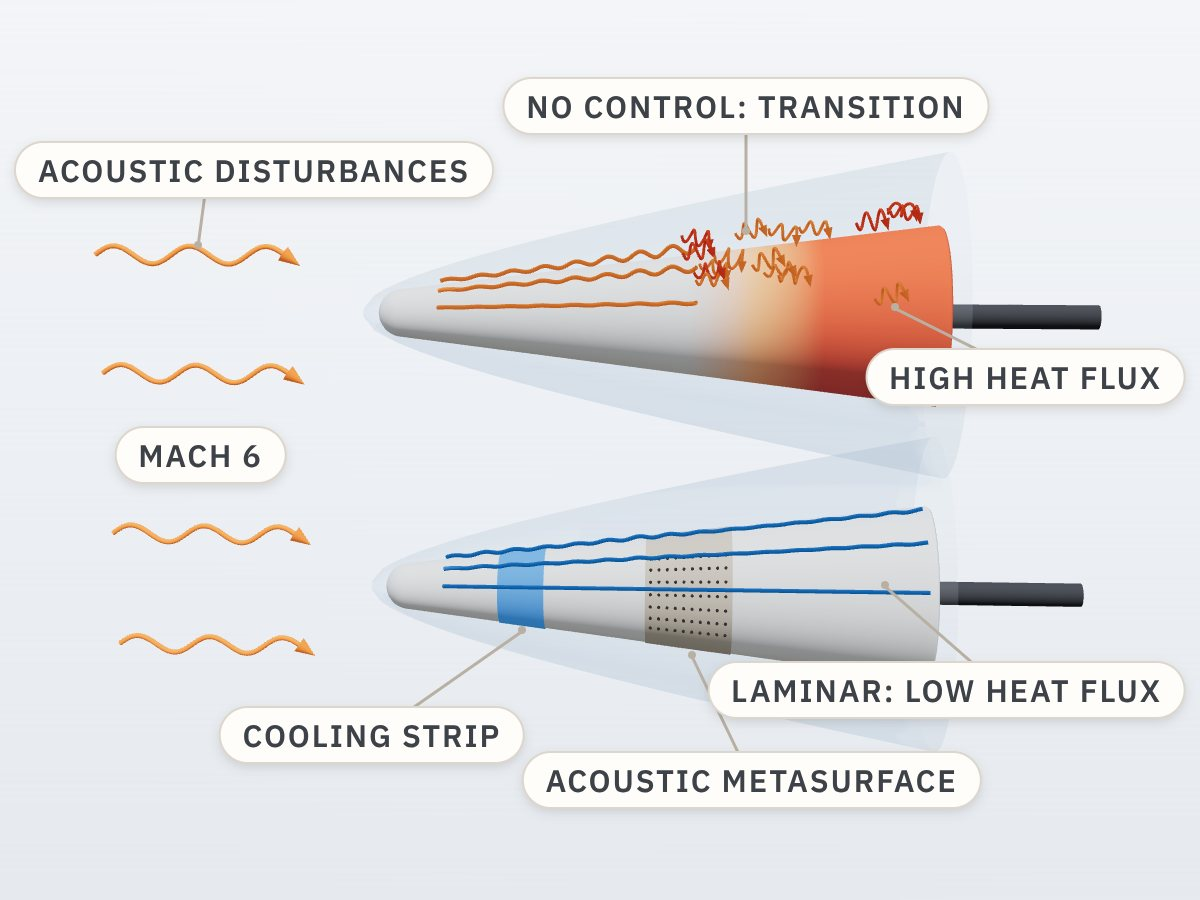
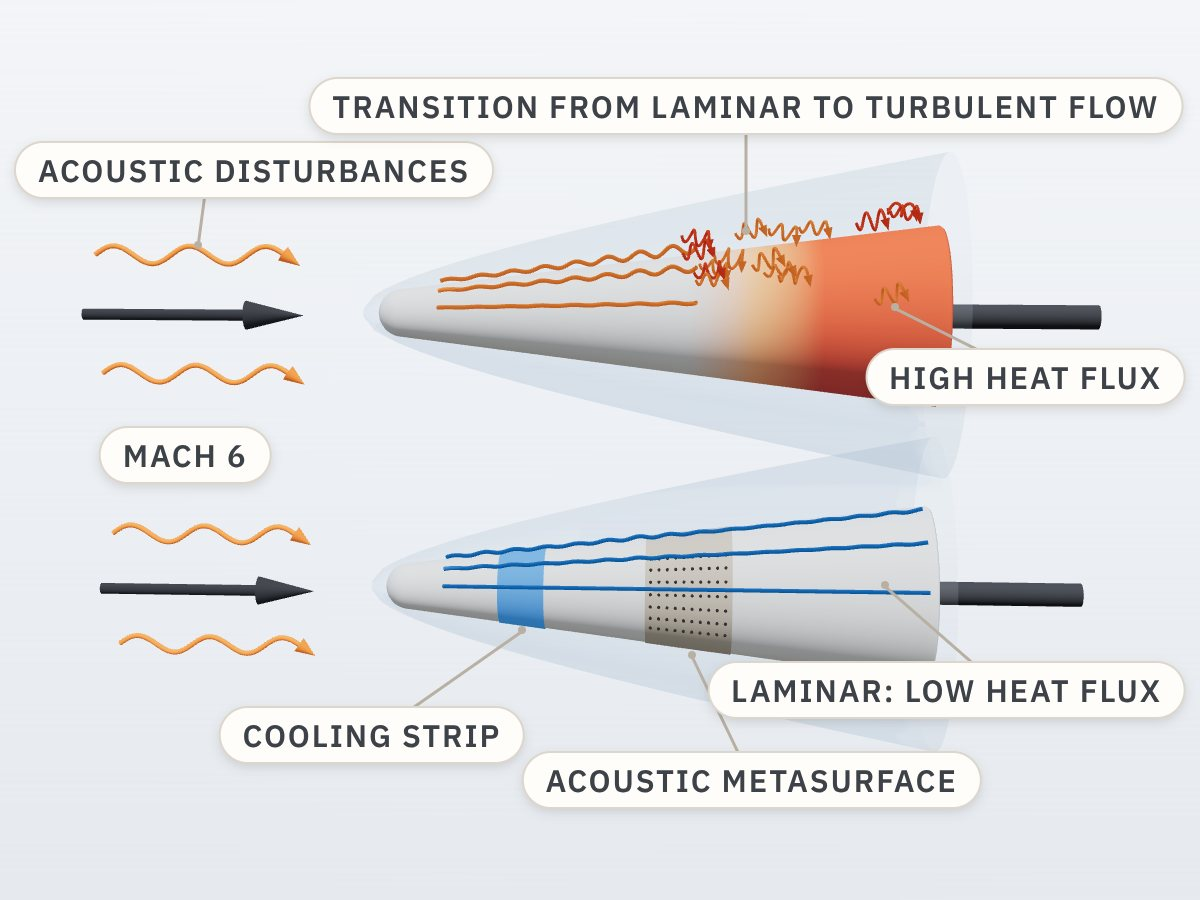
Illustrations: ship turbulence, FAA wind field, Mach 6 arrows, lift curve
- AIRWISE: eddies shed from the superstructure; network labeled AIRWISE
- FAA ASSURE: vertical LES slice behind the towers, ABL inflow with mean and
  fluctuating profiles, more building-induced eddies, VTOL clearly visible
- Hypersonic: a Mach 6 free-stream arrow on each cone; transition label
- Flow control: inflow aligned with the leading edges; C_L-alpha inset with
  delayed stall and higher C_L,max when the actuators are on

Claude-Session: https://claude.ai/code/session_01BxnXVDyGPR6ku7y4dUWxom

diff --git a/tools/scenes/scenes/swj.js b/tools/scenes/scenes/swj.js
@@ -1,4 +1,4 @@
-import { THREE, C, setup, clay, glass, mesh, rbox, streamline, swirl, finish } from './lib.js';
+import { THREE, C, setup, clay, glass, mesh, rbox, streamline, swirl, finish, inset } from './lib.js';
 
 // Two wings at an angle of attack beyond stall. Top: actuators off, the flow separates from the leading edge.
 // Bottom: sweeping jet actuators on, the flow stays attached to the trailing edge.
@@ -12,7 +12,8 @@ function wing(scene, y0) {
   const s = new THREE.Shape(); s.moveTo(...up[0]); up.slice(1).forEach(p => s.lineTo(...p)); lo.slice().reverse().forEach(p => s.lineTo(...p));
   const w = new THREE.Mesh(new THREE.ExtrudeGeometry(s, { depth: span, bevelEnabled: false }), [clay('#5d6570'), clay('#eceae5')]);
   w.position.set(-c / 2, y0, -span / 2); w.castShadow = w.receiveShadow = true; scene.add(w);
-  return up.map(([x, y]) => [x - c / 2, y + y0]);
+  const sh = ([x, y]) => [x - c / 2, y + y0];
+  return { up: up.map(sh), lo: lo.map(sh) };
 }
 
 function oscTexture() {
@@ -29,23 +30,26 @@ function oscTexture() {
 }
 
 export default async function () {
-  const ctx = setup({ cam: [-5.0, 6.0, 21.5], target: [0.5, -0.1, 0], fov: 30, lightPos: [-4, 12, 9], shadowSize: 9 });
+  const ctx = setup({ cam: [-4.2, 6.0, 24.5], target: [1.5, -0.3, 0], fov: 30, lightPos: [-4, 12, 9], shadowSize: 9 });
   const { scene } = ctx;
   const yTop = 2.3, yBot = -2.4;
-  const upT = wing(scene, yTop), upB = wing(scene, yBot);
+  const T = wing(scene, yTop), Bw = wing(scene, yBot), upT = T.up, upB = Bw.up;
+  const X1 = -6.6;                                          // upstream start of the streamlines
+  // pressure-side streamline: approaches just below the stagnation point, follows the lower surface, leaves the trailing edge
+  const lower = (W, y0, z) => { const pts = [[X1, y0 - 0.32, z], [-3.6, y0 - 0.34, z]];
+    W.lo.filter((_, i) => i % 10 === 0 && i > 4).forEach(p => pts.push([p[0], p[1] - 0.24, z]));
+    const te = W.lo[80]; pts.push([te[0] + 0.8, te[1] - 0.3, z], [te[0] + 1.7, te[1] - 0.4, z]); streamline(scene, pts, { r: 0.04, color: C.flow, opacity: 0.85 }); };
 
-  // --- actuators off: leading-edge separation, recirculation over the suction side, wide wake
-  for (const z of [-1.4, 0.4]) {
-    const le = upT[3];
-    streamline(scene, [[-5.6, le[1] + 0.9, z], [-3.2, le[1] + 0.85, z], [le[0] + 0.1, le[1] + 0.35, z], [0.4, le[1] + 0.85, z], [2.4, le[1] + 0.95, z], [4.6, le[1] + 0.8, z]], { r: 0.042, color: C.flow, opacity: 0.85 });
-  }
-  for (const [f, rad] of [[0.3, 0.36], [0.55, 0.45], [0.8, 0.42]]) {
+  // --- actuators off: the suction-side streamlines leave the leading edge (separated shear layer); recirculation below them
+  for (const z of [0.7, -1.3]) streamline(scene, [[X1, yTop + 0.22, z], [-3.4, yTop + 0.22, z], [upT[2][0] - 0.05, upT[2][1] + 0.16, z], [-0.6, yTop + 0.48, z], [1.6, yTop + 0.56, z], [4.2, yTop + 0.5, z]], { r: 0.042, color: C.flow, opacity: 0.85 });
+  lower(T, yTop, 0.0);
+  for (const [f, rad] of [[0.3, 0.3], [0.55, 0.4], [0.8, 0.4]]) {
     const p = upT[Math.round(f * 80)];
-    swirl(scene, [p[0], p[1] + rad + 0.08, -0.4], { axis: [0, 0, 1], radius: rad, turns: 2.4, length: 1.6, color: C.hot, opacity: 0.9, grow: 0.25 });
+    swirl(scene, [p[0], p[1] + rad + 0.06, -0.4], { axis: [0, 0, 1], radius: rad, turns: 2.4, length: 1.6, color: C.hot, opacity: 0.9, grow: 0.25 });
   }
-  swirl(scene, [2.6, upT[80][1] + 0.1, -0.4], { axis: [0, 0, 1], radius: 0.38, turns: 2, length: 1.4, color: C.hot, opacity: 0.8 });
+  swirl(scene, [2.4, upT[80][1] + 0.25, -0.4], { axis: [0, 0, 1], radius: 0.36, turns: 2, length: 1.4, color: C.hot, opacity: 0.8 });
 
-  // --- actuators on: sweeping jets near the leading edge; streamlines follow the suction side to the trailing edge
+  // --- actuators on: sweeping jets near the leading edge; the suction-side streamlines stay attached to the trailing edge
   const i0 = 12, p0 = upB[i0], p1 = upB[i0 + 4];
   const xd = new THREE.Vector3(p1[0] - p0[0], p1[1] - p0[1], 0).normalize(), zd = new THREE.Vector3(0, 0, 1);
   const nrm = new THREE.Vector3().crossVectors(zd, xd).normalize();
@@ -63,23 +67,55 @@ export default async function () {
       streamline(scene, [[o.x, o.y + 0.05, o.z], e.toArray()], { r: ph === 0 ? 0.03 : 0.02, color: C.orange, opacity: ph === 0 ? 1 : 0.6, arrow: ph === 0 });
     }
   }
-  for (const z of [-1.9, 0.6]) {
-    const pts = [[-5.6, upB[0][1] + 0.75, z], [-3.0, upB[0][1] + 0.7, z]];
-    upB.filter((_, i) => i % 7 === 0 && i > 2).forEach(p => pts.push([p[0], p[1] + 0.28, z]));
-    const te = upB[80]; pts.push([te[0] + 0.9, te[1] - 0.2, z], [te[0] + 2.2, te[1] - 0.35, z]);
+  for (const z of [0.65, -0.65]) {
+    const pts = [[X1, yBot + 0.22, z], [-3.4, yBot + 0.22, z], [upB[2][0] - 0.05, upB[2][1] + 0.16, z]];
+    upB.filter((_, i) => i % 8 === 0 && i > 4).forEach(p => pts.push([p[0], p[1] + 0.2, z]));
+    const te = upB[80]; pts.push([te[0] + 0.8, te[1] - 0.12, z], [te[0] + 1.7, te[1] - 0.22, z]);
     streamline(scene, pts, { r: 0.042, color: C.flow, opacity: 0.9 });
   }
+  lower(Bw, yBot, 0.0);
 
-  // fluidic oscillator (actuator internals), top right
+  // fluidic oscillator (actuator internals)
   const side = clay('#6f7782');
   const block = new THREE.Mesh(new THREE.BoxGeometry(2.0, 0.18, 1.25), [side, side, new THREE.MeshStandardMaterial({ map: oscTexture(), roughness: 0.8 }), side, side, side]);
-  block.position.set(3.9, 0.15, 0.6); block.rotation.set(0.75, -0.25, 0); block.castShadow = true; scene.add(block);
+  block.position.set(5.3, 0.35, 0.6); block.rotation.set(0.75, -0.25, 0); block.castShadow = true; scene.add(block);
+
+  // Sub-figure: lift curves. Same lift slope; with actuators off the wing stalls at a lower angle and a lower C_L,max.
+  const w = 430, h = 370, gx0 = 70, gx1 = w - 26, gy0 = h - 62, gy1 = 84;
+  const s = 1.56, a1 = 0.45, a2 = 0.72, aop = 0.58;
+  const cl = (a, as) => { const pk = s * as * 0.82; return a <= as ? s * a * (1 - 0.18 * (a / as) ** 4) : pk * (0.6 + 0.4 * Math.exp(-(a - as) / 0.05)); };
+  const P = (a, v) => [gx0 + (gx1 - gx0) * a, gy0 - (gy0 - gy1) * v];
+  const curve = as => { let d = ''; for (let i = 0; i <= 300; i++) { const a = i / 300, [x, y] = P(a, cl(a, as)); d += (i ? 'L' : 'M') + x.toFixed(1) + ',' + y.toFixed(1); } return d; };
+  const [s1x, s1y] = P(a1, cl(a1, a1)), [s2x, s2y] = P(a2, cl(a2, a2)), [ox] = P(aop, 0);
+  const [o1x, o1y] = P(aop, cl(aop, a1)), [o2x, o2y] = P(aop, cl(aop, a2));
+  inset(ctx.stage, { x: 1200 - w - 18, y: 900 - h - 18, w, h, svg: `
+    <svg width="${w}" height="${h}" viewBox="0 0 ${w} ${h}" xmlns="http://www.w3.org/2000/svg">
+      <text x="22" y="40" font-family="Plex" font-weight="600" font-size="23" letter-spacing="1.5" fill="#3d4148">LIFT CURVE</text>
+      <line x1="${s1x}" y1="${s1y}" x2="${s1x}" y2="${gy0}" stroke="#3f86d9" stroke-width="2" stroke-dasharray="6 6"/>
+      <line x1="${s2x}" y1="${s2y}" x2="${s2x}" y2="${gy0}" stroke="#d55a00" stroke-width="2" stroke-dasharray="6 6"/>
+      <line x1="${ox}" y1="${gy1 - 4}" x2="${ox}" y2="${gy0}" stroke="#b9b0a4" stroke-width="2"/>
+      <text x="${ox}" y="${gy1 - 12}" text-anchor="middle" font-family="PlexMono" font-size="15" fill="#7a8088">α shown</text>
+      <line x1="${gx0}" y1="${gy1 - 10}" x2="${gx0}" y2="${gy0}" stroke="#b9b0a4" stroke-width="3"/>
+      <line x1="${gx0}" y1="${gy0}" x2="${gx1}" y2="${gy0}" stroke="#b9b0a4" stroke-width="3"/>
+      <path d="${curve(a1)}" fill="none" stroke="#3f86d9" stroke-width="4" stroke-linejoin="round"/>
+      <path d="${curve(a2)}" fill="none" stroke="#ff7a1a" stroke-width="4" stroke-linejoin="round"/>
+      <circle cx="${s1x}" cy="${s1y}" r="6.5" fill="#3f86d9"/><circle cx="${s2x}" cy="${s2y}" r="6.5" fill="#ff7a1a"/>
+      <circle cx="${o1x}" cy="${o1y}" r="6" fill="#fffdfa" stroke="#3f86d9" stroke-width="3"/><circle cx="${o2x}" cy="${o2y}" r="6" fill="#fffdfa" stroke="#ff7a1a" stroke-width="3"/>
+      <text x="${s1x - 10}" y="${s1y - 14}" text-anchor="end" font-family="PlexMono" font-size="19" fill="#3f86d9">C<tspan font-size="13" dy="5">L,max</tspan></text>
+      <text x="${s2x}" y="${s2y - 16}" text-anchor="middle" font-family="PlexMono" font-size="19" fill="#d55a00">C<tspan font-size="13" dy="5">L,max</tspan></text>
+      <text x="${s1x}" y="${gy0 + 26}" text-anchor="middle" font-family="PlexMono" font-size="18" fill="#3f86d9">α<tspan font-size="12" dy="5">stall</tspan></text>
+      <text x="${s2x}" y="${gy0 + 26}" text-anchor="middle" font-family="PlexMono" font-size="18" fill="#d55a00">α<tspan font-size="12" dy="5">stall</tspan></text>
+      <text x="${gx1}" y="${gy0 + 50}" text-anchor="end" font-family="PlexMono" font-size="22" fill="#3d4148">α</text>
+      <text x="18" y="${(gy0 + gy1) / 2 + 8}" font-family="PlexMono" font-size="22" fill="#3d4148">C<tspan font-size="15" dy="6">L</tspan></text>
+      <text x="${gx1}" y="${P(1, cl(1, a2))[1] - 14}" text-anchor="end" font-family="Plex" font-weight="600" font-size="16" letter-spacing="1" fill="#d55a00">ON</text>
+      <text x="${gx1}" y="${P(1, cl(1, a1))[1] - 12}" text-anchor="end" font-family="Plex" font-weight="600" font-size="16" letter-spacing="1" fill="#3f86d9">OFF</text>
+    </svg>` });
 
   finish(ctx, [
-    { t: '<span class="nc">α</span> beyond stall', at: [-5.2, yTop + 0.9, -1.4], dx: 20, dy: -70 },
-    { t: 'Actuators off: separated', at: [upT[45][0], upT[45][1] + 1.0, -0.4], dx: 170, dy: -110 },
-    { t: 'Actuators on: attached', at: [upB[60][0], upB[60][1] + 0.28, 0.6], dx: 210, dy: 100 },
-    { t: 'Sweeping jets', at: [p0[0] + 0.6, p0[1] + 0.1, 1.3], dx: -170, dy: 120 },
-    { t: 'Fluidic oscillator', at: [3.9, -0.05, 0.6], dx: 10, dy: 95 },
+    { t: '<span class="nc">α</span> beyond stall', at: [-6.0, yTop + 0.22, 0.7], dx: 30, dy: -80 },
+    { t: 'Actuators off: separated', at: [upT[45][0], upT[45][1] + 0.9, -0.4], dx: 120, dy: -120 },
+    { t: 'Actuators on: attached', at: [upB[60][0], upB[60][1] + 0.2, 0.65], dx: -40, dy: -160 },
+    { t: 'Sweeping jets', at: [p0[0] + 0.6, p0[1] + 0.1, 1.3], dx: -120, dy: 150 },
+    { t: 'Fluidic oscillator', at: [5.3, 0.6, 0.6], dx: -10, dy: -95 },
   ]);
 }

diff --git a/tools/scenes/scenes/faa.js b/tools/scenes/scenes/faa.js
@@ -8,67 +8,89 @@ const towers = [
   [1.0, 2.4, 1.2, 1.2, 4.0], [2.6, -2.2, 1.2, 1.2, 4.6], [3.2, 1.0, 1.1, 1.3, 3.0, 'box'], [-0.6, -3.0, 1.0, 1.0, 2.6],
 ];
 
-function sliceTexture(xmin, xmax, zmin, zmax) {
-  const W = 768, H = 512, cv = document.createElement('canvas'); cv.width = W; cv.height = H; const g = cv.getContext('2d');
+// Vertical (x-y) LES slice behind the district: streamwise velocity of the urban ABL with building wakes and turbulence.
+function sliceTexture(xmin, xmax, ymax, rows) {
+  const W = 640, H = 370, cv = document.createElement('canvas'); cv.width = W; cv.height = H; const g = cv.getContext('2d');
   const img = g.createImageData(W, H);
   const cmap = t => { // coolwarm: blue (slow) -> white -> red-orange (fast)
     const a = [59, 76, 192], b = [235, 236, 240], c = [222, 96, 40];
     const m = (p, q, u) => p.map((v, i) => v + (q[i] - v) * u);
     return t < 0.5 ? m(a, b, t * 2) : m(b, c, (t - 0.5) * 2);
   };
+  // synthetic turbulence: random Fourier modes with a -5/6 amplitude spectrum (Kolmogorov -5/3 energy spectrum)
+  let sd = 29; const r = () => (sd = (sd * 16807) % 2147483647) / 2147483647;
+  const modes = []; for (let m = 0; m < 48; m++) { const k = 1.2 * Math.pow(12, m / 47), th = r() * Math.PI * 2; modes.push([k * Math.cos(th), k * 1.4 * Math.sin(th), r() * 6.28, Math.pow(k, -5 / 6)]); }
+  const norm = modes.reduce((a, m) => a + m[3] ** 2, 0) ** 0.5;
+  const nz = (x, y) => modes.reduce((a, [kx, ky, ph, A]) => a + A * Math.sin(kx * x + ky * y + ph), 0) / norm * 1.6;
   for (let j = 0; j < H; j++) for (let i = 0; i < W; i++) {
-    const x = xmin + (xmax - xmin) * i / W, z = zmin + (zmax - zmin) * j / H;
-    let u = 0.78;
-    for (const [bx, bz, bw, bd] of towers) {
+    const x = xmin + (xmax - xmin) * i / W, y = ymax * (1 - j / H), k = (j * W + i) * 4;
+    let inside = false, u = 0.98 * Math.pow(Math.max(y, 0.02) / ymax, 0.3), tke = 0.25 * Math.exp(-y / 2.5);
+    for (const [bx, bw, h] of rows) {
+      if (Math.abs(x - bx) < bw / 2 && y < h) inside = true;
       const dx = x - (bx + bw / 2);
-      if (dx > -0.2) { const sig = bd * 0.32 + 0.07 * Math.max(dx, 0); u -= 0.48 * Math.exp(-((z - bz) ** 2) / (2 * sig * sig)) * Math.exp(-Math.max(dx, 0) / 7.0); }
-      if (Math.abs(x - bx) < bw / 2 + 0.1 && Math.abs(z - bz) < bd / 2 + 0.1) u = -1;
+      if (dx > -bw && y < h * 1.6) {
+        const fy = Math.exp(-((y - 0.55 * h) ** 2) / (2 * (0.5 * h) ** 2)), fx = dx > 0 ? Math.exp(-dx / 3.2) : 0.6;
+        u -= 0.42 * fx * fy; tke += 0.9 * fx * Math.exp(-((y - h) ** 2) / (2 * (0.45 * h) ** 2));
+      }
     }
-    const n = 0.08 * Math.sin(4.1 * x + 2.2 * Math.sin(3.3 * z)) + 0.07 * Math.sin(7.3 * z + 2.9 * Math.sin(2.9 * x)) + 0.06 * Math.sin(13.1 * x - 9.3 * z + 1.3 * Math.sin(5 * z)) + 0.04 * Math.sin(19.7 * z + 3 * Math.sin(7 * x));
-    const k = (j * W + i) * 4;
-    if (u === -1) { img.data.set([90, 96, 104, 255], k); continue; }
-    const t = Math.min(1, Math.max(0, u + n * (1.6 - u)));
-    img.data.set([...cmap(t).map(Math.round), 235], k);
+    if (inside) { img.data.set([112, 118, 126, 255], k); continue; }
+    const t = Math.min(1, Math.max(0, u + 0.3 * Math.min(tke, 0.75) * nz(x, y)));
+    img.data.set([...cmap(t).map(Math.round), 240], k);
   }
   g.putImageData(img, 0, 0);
   const t = new THREE.CanvasTexture(cv); t.colorSpace = THREE.SRGBColorSpace; t.anisotropy = 8; return t;
 }
 
 export default async function () {
-  const ctx = setup({ cam: [15.5, 14.5, 19.5], target: [0.2, 2.6, 0.2], fov: 31, lightPos: [10, 18, 9], shadowSize: 11 });
+  const ctx = setup({ cam: [10.0, 12.0, 24.5], target: [0.3, 3.75, -0.6], fov: 31, lightPos: [10, 18, 9], shadowSize: 11 });
   const { scene } = ctx;
   const top = tile(scene, { w: 13, d: 10, top: C.sage, base: C.sand });
   city(scene, top, towers);
 
-  // validated LES wind field: horizontal slice through the district
-  const xmin = -6.2, xmax = 6.2, zmin = -4.6, zmax = 4.6, ys = top + 2.2;
-  const plane = mesh(new THREE.PlaneGeometry(xmax - xmin, zmax - zmin), new THREE.MeshStandardMaterial({ map: sliceTexture(xmin, xmax, zmin, zmax), transparent: true, opacity: 0.92, roughness: 0.9, side: THREE.DoubleSide }), { pos: [0, ys, 0], rot: [-Math.PI / 2, 0, 0], cast: false });
+  // validated LES wind field: vertical streamwise slice at the back of the domain, behind the towers
+  const xmin = -6.4, xmax = 6.4, ymax = 7.4, zs = -4.85;
+  const rows = towers.filter(t => t[1] < -1).map(([bx, , bw, , h]) => [bx, bw, h]);   // the slice cuts the back row
+  const plane = mesh(new THREE.PlaneGeometry(xmax - xmin, ymax), new THREE.MeshStandardMaterial({ map: sliceTexture(xmin, xmax, ymax, rows), transparent: true, opacity: 0.95, roughness: 0.9, side: THREE.DoubleSide }), { pos: [0, top + ymax / 2, zs], cast: false });
   scene.add(plane);
-  const edge = new THREE.LineSegments(new THREE.EdgesGeometry(new THREE.PlaneGeometry(xmax - xmin, zmax - zmin)), new THREE.LineBasicMaterial({ color: '#7a8796' }));
-  edge.rotation.x = -Math.PI / 2; edge.position.y = ys + 0.01; scene.add(edge);
+  const edge = new THREE.LineSegments(new THREE.EdgesGeometry(new THREE.PlaneGeometry(xmax - xmin, ymax)), new THREE.LineBasicMaterial({ color: '#7a8796' }));
+  edge.position.set(0, top + ymax / 2, zs + 0.01); scene.add(edge);
 
-  // ABL inflow profile (power law, exponent 0.3 for urban terrain) at the upstream boundary
-  const x0 = -6.6, zp = 0.0, hmax = 6.2;
-  const prof = []; for (let i = 0; i <= 40; i++) { const y = 0.12 + (hmax - 0.12) * i / 40; prof.push([x0 + 2.3 * Math.pow(y / hmax, 0.3), top + y, zp]); }
-  streamline(scene, prof, { r: 0.03, color: C.ink, opacity: 1, arrow: false });
-  streamline(scene, [[x0, top, zp], [x0, top + hmax, zp]], { r: 0.022, color: C.ink, opacity: 1, arrow: false });
-  for (const y of [0.35, 1.2, 2.5, 4.0, 5.8]) { const L = 2.3 * Math.pow(y / hmax, 0.3); arrow(scene, [x0, top + y, zp], [x0 + L, top + y, zp], { r: 0.04, color: C.ink }); }
+  // ABL inflow at the upstream boundary: mean power-law profile (exponent 0.3, urban terrain) and an instantaneous profile
+  // with turbulent fluctuations, strongest near the ground
+  const x0 = -6.6, zp = 0.6, hmax = 6.6, Lp = 2.4;
+  const mean = y => Lp * Math.pow(y / hmax, 0.3);
+  const prof = [], inst = [];
+  for (let i = 0; i <= 120; i++) {
+    const y = 0.12 + (hmax - 0.12) * i / 120;
+    prof.push([x0 + mean(y), top + y, zp]);
+    const up = (0.5 * Math.exp(-y / 2.6) + 0.1) * (Math.sin(2.9 * y + 0.4) * 0.55 + Math.sin(5.3 * y + 1.1) * 0.35 + Math.sin(9.1 * y + 2.3) * 0.2);
+    inst.push([x0 + Math.max(0.05, mean(y) + up), top + y, zp]);
+  }
+  streamline(scene, inst, { r: 0.028, color: C.hot, opacity: 1, arrow: false, seg: 600 });
+  streamline(scene, prof, { r: 0.04, color: C.ink, opacity: 1, arrow: false });
+  streamline(scene, [[x0, top, zp], [x0, top + hmax + 0.2, zp]], { r: 0.024, color: C.ink, opacity: 1, arrow: false });
+  for (const y of [0.4, 1.3, 2.6, 4.1, 5.9]) arrow(scene, [x0, top + y, zp], [x0 + mean(y), top + y, zp], { r: 0.04, color: C.ink });
 
-  // building-induced wakes and gusts above the slice
+  // building-induced turbulence: eddies shed from the tower edges and rooftops, convected downstream (+x)
   let sd = 11; const rnd = () => (sd = (sd * 16807) % 2147483647) / 2147483647;
   for (const [bx, bz, bw, bd, h] of towers) {
-    if (h < 3.5) continue;
-    for (let k = 0; k < 2; k++) swirl(scene, [bx + bw / 2 + 0.9 + k * 1.2, top + 2.8 + rnd() * (h - 2.6), bz + (rnd() - 0.5) * 0.8], { axis: [1, (rnd() - 0.5) * 0.4, (rnd() - 0.5) * 0.4], radius: 0.28 + rnd() * 0.18, turns: 2.2, length: 0.9, r: 0.032, color: k ? C.flow : C.hot, opacity: 0.85 });
+    const n = h > 5 ? 6 : h > 3.5 ? 5 : 3;
+    for (let k = 0; k < n; k++) {
+      const roof = k === 0, dxw = roof ? 0.1 + rnd() * 0.6 : 0.5 + k * 0.75 + rnd() * 0.4;
+      const y = roof ? top + h + 0.25 : top + 0.6 + rnd() * (h * 1.05 - 0.4);
+      const zc = bz + (k % 2 ? 1 : -1) * (bd / 2 + 0.05 + rnd() * 0.35);
+      swirl(scene, [bx + bw / 2 + dxw, y, roof ? bz : zc], { axis: [1, (rnd() - 0.5) * 0.5, (rnd() - 0.5) * 0.5], radius: (roof ? 0.3 : 0.16) + rnd() * 0.16, turns: 2.3, length: 0.65 + rnd() * 0.4, r: 0.03, color: k % 2 ? C.flow : C.hot, opacity: 0.9, grow: 0.3 });
+    }
   }
-  for (const [y, z] of [[top + 7.3, -1.5], [top + 6.4, 2.6]]) streamline(scene, [[-5.4, y, z], [-2.0, y, z], [0.2, y + 0.4, z + 0.2], [2.6, y - 0.3, z], [5.6, y, z]], { r: 0.045, color: C.flow, opacity: 0.85 });
+  for (const [y, z] of [[top + 7.6, -1.2], [top + 6.9, 0.9]]) streamline(scene, [[-5.4, y, z], [-2.0, y, z], [0.2, y + 0.45, z + 0.2], [2.6, y - 0.35, z], [5.6, y, z]], { r: 0.045, color: C.flow, opacity: 0.85 });
 
-  // AAM VTOL aircraft operating in the turbulent environment (secondary)
-  const v = evtol(0.8); v.position.set(4.6, top + 4.0, 3.2); v.rotation.set(0.05, 0.2, 0.08); scene.add(v);
+  // AAM VTOL aircraft operating in the turbulent environment (secondary), in front of the district
+  const v = evtol(1.0); v.position.set(3.3, top + 7.7, 3.0); v.rotation.set(0.08, 0.45, 0.12); scene.add(v);
 
   finish(ctx, [
-    { t: 'ABL inflow', at: [x0, top + hmax, zp], dx: 40, dy: -70 },
-    { t: 'Building-induced turbulence', at: [1.9, top + 5.2, -0.4], dx: 110, dy: -150 },
-    { t: 'Validated LES wind field', at: [-1.8, ys, 3.6], dx: -110, dy: 140 },
-    { t: 'AAM VTOL', at: [4.6, top + 4.0, 3.2], dx: 60, dy: 120 },
+    { t: 'ABL inflow: mean + fluctuations', at: [x0 + mean(1.2) * 0.6, top + 1.2, zp], dx: 40, dy: 170 },
+    { t: 'Validated LES wind field', at: [-4.6, top + 6.6, zs], dx: 0, dy: -80 },
+    { t: 'Building-induced turbulence', at: [3.75, top + 2.2, -1.9], dx: 0, dy: 270 },
+    { t: 'AAM VTOL', at: [3.3, top + 7.7, 3.0], dx: 170, dy: -40 },
   ]);
 }

diff --git a/index.html b/index.html
@@ -409,7 +409,7 @@
         </div>
       </article>
       <article class="proj" id="project-airwise">
-        <figure class="pfig"><img src="assets/research/sketch-ship-airwake.jpg" alt="Illustration: the NATO Generic Destroyer, from its 1:50 baseline geometry, with wind over the deck separating off the hangar into a recirculating airwake over the flight deck; mast anemometers feed a neural network that outputs the inferred airwake for an approaching helicopter" loading="lazy" width="1200" height="900"></figure>
+        <figure class="pfig"><img src="assets/research/sketch-ship-airwake.jpg" alt="Illustration: the NATO Generic Destroyer, from its 1:50 baseline geometry, with wind over the deck shedding turbulent eddies from the superstructure and separating off the hangar into a recirculating airwake over the flight deck; mast anemometers feed the AIRWISE neural network, which outputs the inferred airwake for an approaching helicopter" loading="lazy" width="1200" height="900"></figure>
         <div class="pbody">
           <span class="label">U.S. Navy NAWCAD · PI · 2026–2028</span>
           <h3>Ship airwakes and real-time wake inference</h3>
@@ -423,7 +423,7 @@
         </div>
       </article>
       <article class="proj" id="project-faa">
-        <figure class="pfig"><img src="assets/research/sketch-aam-turbulence.jpg" alt="Illustration: an atmospheric boundary-layer inflow profile enters a high-rise district; towers shed turbulent wakes and gusts captured in an LES velocity slice through the city, and an AAM VTOL aircraft flies through this turbulent wind environment" loading="lazy" width="1200" height="900"></figure>
+        <figure class="pfig"><img src="assets/research/sketch-aam-turbulence.jpg" alt="Illustration: an atmospheric boundary-layer inflow, drawn as a mean power-law profile with an instantaneous fluctuating profile, enters a high-rise district; the towers shed turbulent eddies downstream, a vertical LES slice of streamwise velocity behind the towers shows their low-speed wakes, and an AAM VTOL aircraft flies above the district in this turbulent wind environment" loading="lazy" width="1200" height="900"></figure>
         <div class="pbody">
           <span class="label">FAA ASSURE · Co-PI · 2026–2028</span>
           <h3>Turbulence loading on AAM VTOL vehicles</h3>
@@ -465,7 +465,7 @@
         </div>
       </article>
       <article class="proj" id="project-hypersonic">
-        <figure class="pfig"><img src="assets/research/sketch-hypersonic.jpg" alt="Illustration: two blunt cones at Mach 6 under acoustic disturbances. Without control, instability waves grow, break down to turbulence, and the aft surface heats up. With a cooling strip and an acoustic metasurface, the waves are damped and the boundary layer stays laminar with low heat flux" loading="lazy" width="1200" height="900"></figure>
+        <figure class="pfig"><img src="assets/research/sketch-hypersonic.jpg" alt="Illustration: two blunt cones in a Mach 6 free stream with acoustic disturbances. Without control, instability waves grow and the boundary layer transitions from laminar to turbulent flow, heating the aft surface. With a cooling strip and an acoustic metasurface, the waves are damped and the boundary layer stays laminar with low heat flux" loading="lazy" width="1200" height="900"></figure>
         <div class="pbody">
           <span class="label">NASA Oklahoma EPSCoR · PI · 2019, 2022–2023</span>
           <h3>Hypersonic boundary-layer transition</h3>
@@ -479,7 +479,7 @@
         </div>
       </article>
       <article class="proj" id="project-swj">
-        <figure class="pfig"><img src="assets/research/sketch-sweeping-jets.jpg" alt="Illustration: two wings beyond the stall angle of attack. With actuators off, the flow separates from the leading edge into large eddies. With sweeping jet actuators on, fan-shaped jets keep the flow attached to the trailing edge. A fluidic oscillator shows the internal feedback channels" loading="lazy" width="1200" height="900"></figure>
+        <figure class="pfig"><img src="assets/research/sketch-sweeping-jets.jpg" alt="Illustration: two wings beyond the stall angle of attack. The free stream approaches each leading edge. With actuators off, the flow separates from the leading edge into large eddies. With sweeping jet actuators on, fan-shaped jets keep the flow attached to the trailing edge. A fluidic oscillator shows the internal feedback channels, and an inset lift curve shows that the actuators delay stall to a higher angle of attack and raise the maximum lift coefficient" loading="lazy" width="1200" height="900"></figure>
         <div class="pbody">
           <span class="label">Khalifa University and KAIST · PI and Co-PI · 2016–</span>
           <h3>Flow-separation control with sweeping jet actuators</h3>

diff --git a/tools/scenes/scenes/airwise.js b/tools/scenes/scenes/airwise.js
@@ -39,6 +39,16 @@ export default async function () {
   swirl(scene, [hangarX - 0.65, deckY + 0.4, 0.0], { axis: [0, 0, 1], radius: 0.36, turns: 2.6, length: 1.2, color: C.hot, opacity: 0.9 });
   swirl(scene, [hangarX - 1.5, deckY + 0.45, 0.55], { axis: [-1, 0, 0.2], radius: 0.22, turns: 2.2, length: 0.9, color: C.hot, opacity: 0.8 });
 
+  // superstructure-induced turbulence: small eddies shed from the bridge, mast, funnel, and hangar edges, both sides of the ship
+  let sd = 17; const rnd = () => (sd = (sd * 16807) % 2147483647) / 2147483647;
+  for (let k = 0; k < 20; k++) {
+    const x = hangarX - 0.2 + rnd() * (mastX + 0.8 - hangarX), side = k % 2 ? 1 : -1;
+    const yTop = x > mastX - 0.4 && x < mastX + 0.4 ? mastTop : hangarTop + 0.15;
+    const y = deckY + 0.5 + rnd() * (yTop - deckY - 0.4), z = side * (0.62 + rnd() * 0.45);
+    swirl(scene, [x, y, z], { axis: [-1, (rnd() - 0.5) * 0.6, side * rnd() * 0.5], radius: 0.07 + rnd() * 0.1, turns: 2.2, length: 0.4 + rnd() * 0.25, r: 0.022, color: rnd() > 0.45 ? C.hot : C.flow, opacity: 0.9, grow: 0.3 });
+  }
+  for (let k = 0; k < 4; k++) swirl(scene, [mastX - 0.45 - k * 0.55, mastTop - 0.25 - k * 0.22 - rnd() * 0.1, (rnd() - 0.5) * 0.4], { axis: [-1, -0.25, 0], radius: 0.14 + 0.03 * k, turns: 2.2, length: 0.45, r: 0.024, color: k % 2 ? C.flow : C.hot, opacity: 0.9, grow: 0.3 });
+
   // helicopter approaching the stern
   const h = new THREE.Group(), hp = [X(2818) - 1.4, deckY + 1.3, 0.35];
   h.add(mesh(new THREE.SphereGeometry(0.5, 32, 20), clay(C.charcoal), { scale: [1.25, 0.6, 0.6] }));
@@ -82,7 +92,7 @@ export default async function () {
     { t: 'NATO Generic Destroyer', at: [X(600), Zt(120), 0.5], dx: 120, dy: 150 },
     { t: 'Inferred airwake', at: [hangarX - 1.2, deckY + 0.3, 0.0], dx: -60, dy: 200 },
     { t: 'Helicopter approach', at: hp, dx: -40, dy: -150 },
-    { t: 'Neural network', at: [nnX, nnY + 0.95, 0.4], dx: 0, dy: -60 },
+    { t: 'AIRWISE', at: [nnX, nnY + 0.95, 0.4], dx: 0, dy: -60 },
     { t: 'Anemometers', at: [mastX, mastTop + 0.06, 0.14], dx: 190, dy: -40 },
   ]);
 }

diff --git a/tools/scenes/scenes/hypersonic.js b/tools/scenes/scenes/hypersonic.js
@@ -1,4 +1,4 @@
-import { THREE, C, setup, clay, glass, mesh, lathe, streamline, swirl, finish } from './lib.js';
+import { THREE, C, setup, clay, glass, mesh, lathe, streamline, swirl, arrow, finish } from './lib.js';
 
 // Mach 6 blunt cones, side by side.
 // Top, uncontrolled: free-stream acoustic disturbances excite first- and second-mode waves that grow, break down,
@@ -85,10 +85,12 @@ export default async function () {
     const pts = []; for (let i = 0; i <= 60; i++) { const x = -6.9 + 2.4 * i / 60; pts.push([x, y + 0.11 * Math.sin(i / 60 * Math.PI * 5), 0.3]); }
     streamline(scene, pts, { r: 0.032, color: C.hot, opacity: 0.95 });
   }
+  // Mach 6 free stream, one arrow on each cone axis
+  for (const y0 of [1.75, -1.85]) arrow(scene, [-7.1, y0, 0.3], [-4.3, y0, 0.3], { r: 0.07, color: C.ink });
   finish(ctx, [
     { t: 'Acoustic disturbances', at: [-5.6, 2.62, 0.3], dx: 10, dy: -75 },
-    { t: 'Mach 6', at: [-5.7, -0.05, 0.3] },
-    { t: 'No control: transition', at: [-3.4 + 4.6, 1.75 + top.R(4.6) + 0.25, 0.3], dx: 0, dy: -125 },
+    { t: 'Mach 6', at: [-5.9, -0.05, 0.3] },
+    { t: 'Transition from laminar to turbulent flow', at: [-3.4 + 4.6, 1.75 + top.R(4.6) + 0.25, 0.3], dx: 0, dy: -125 },
     { t: 'High heat flux', at: [-3.4 + 6.4, 1.75 + top.R(6.4) * 0.2, 0.7], dx: 140, dy: 70 },
     { t: 'Cooling strip', at: [-3.4 + 1.8, -1.85 - bot.R(1.8), 0.3], dx: -150, dy: 105 },
     { t: 'Acoustic metasurface', at: [-3.4 + 4.0, -1.85 - bot.R(4.0), 0.4], dx: 60, dy: 125 },
